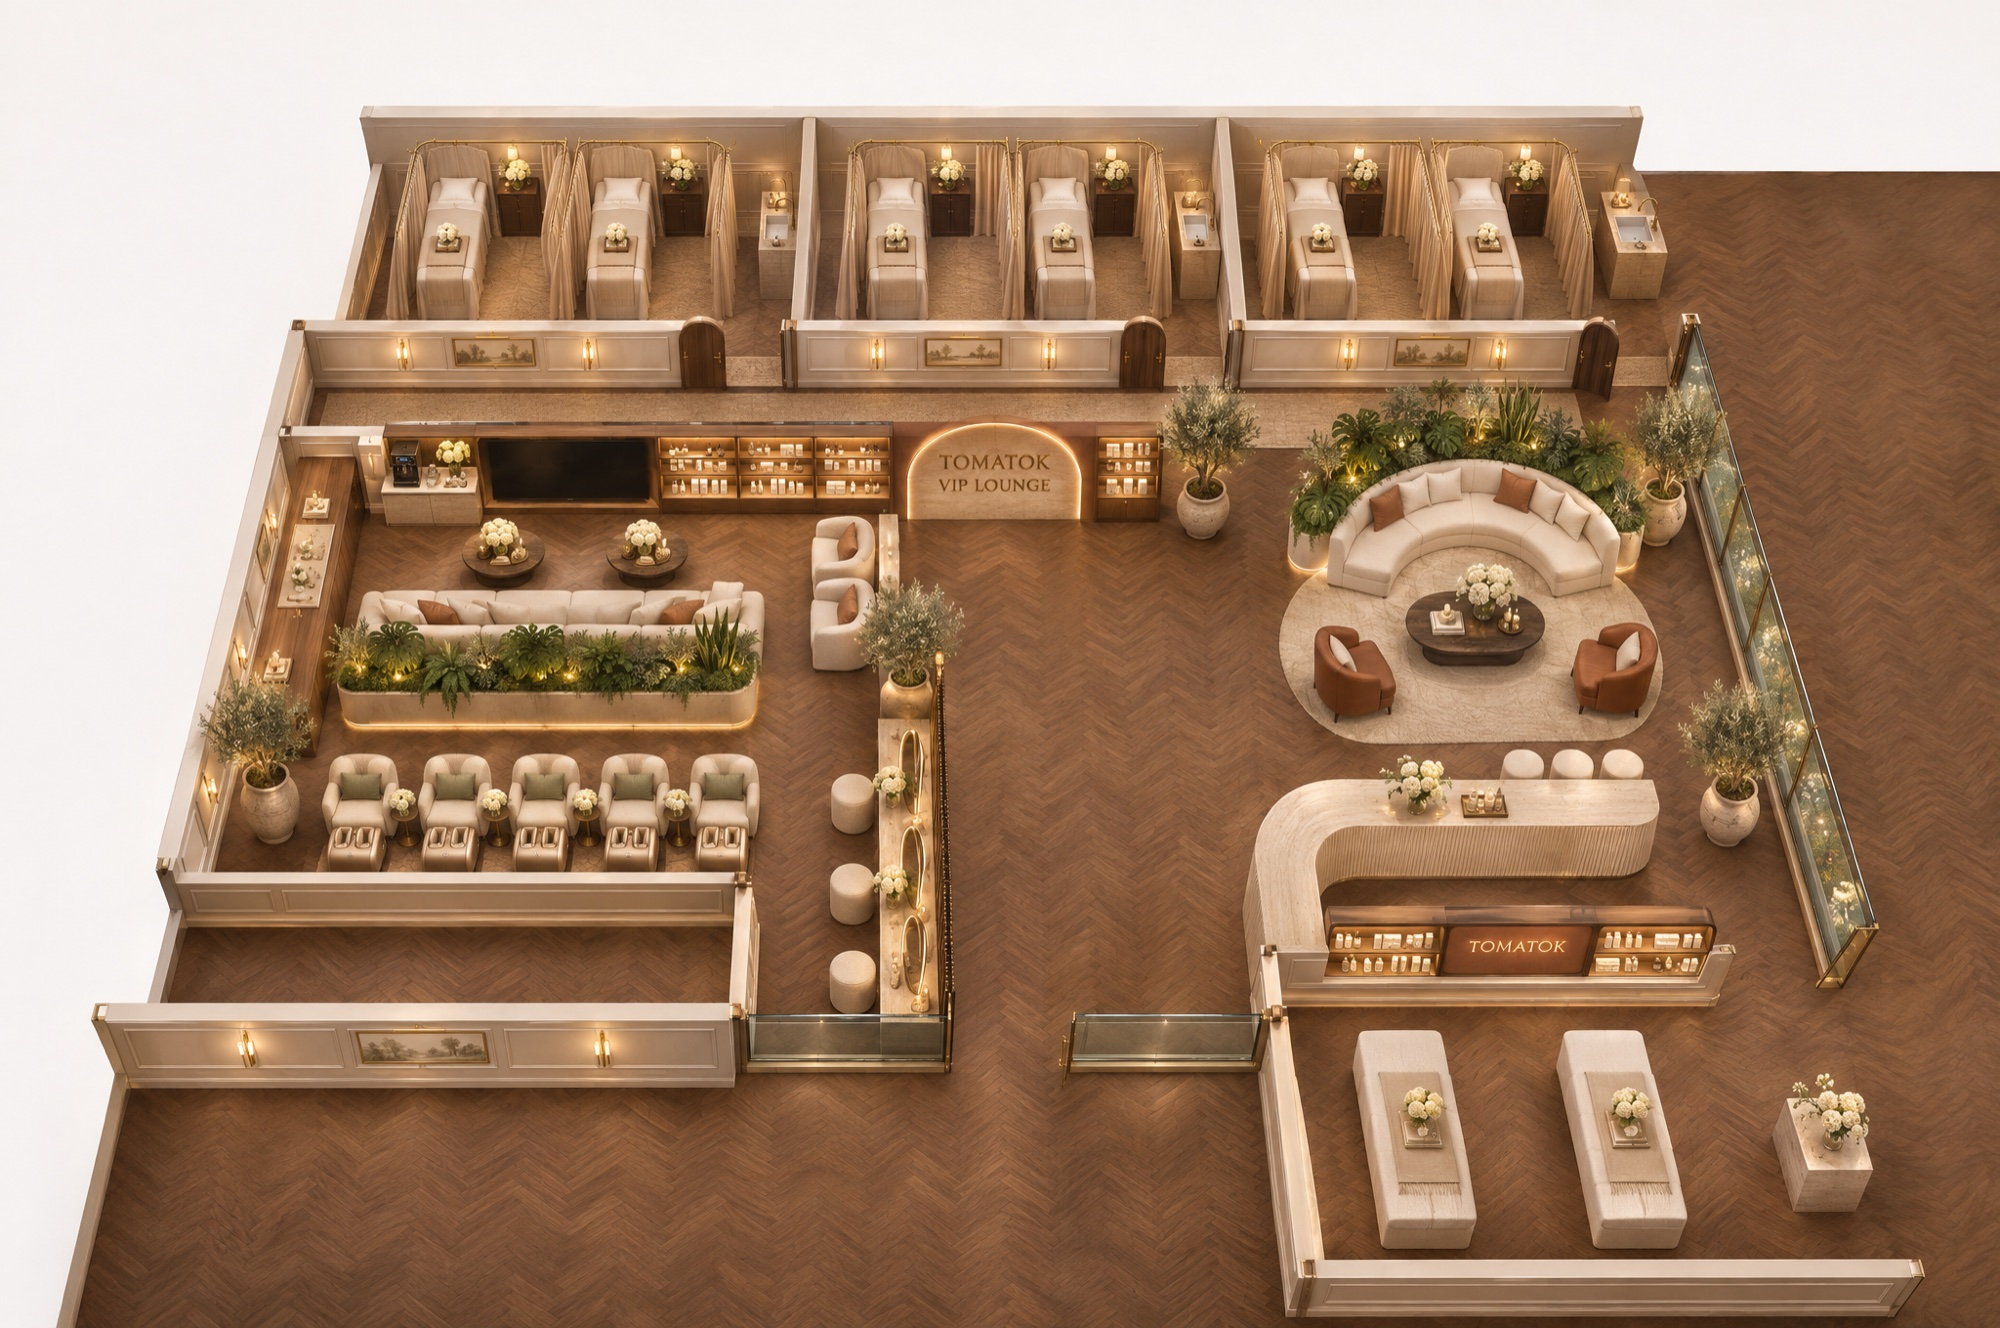
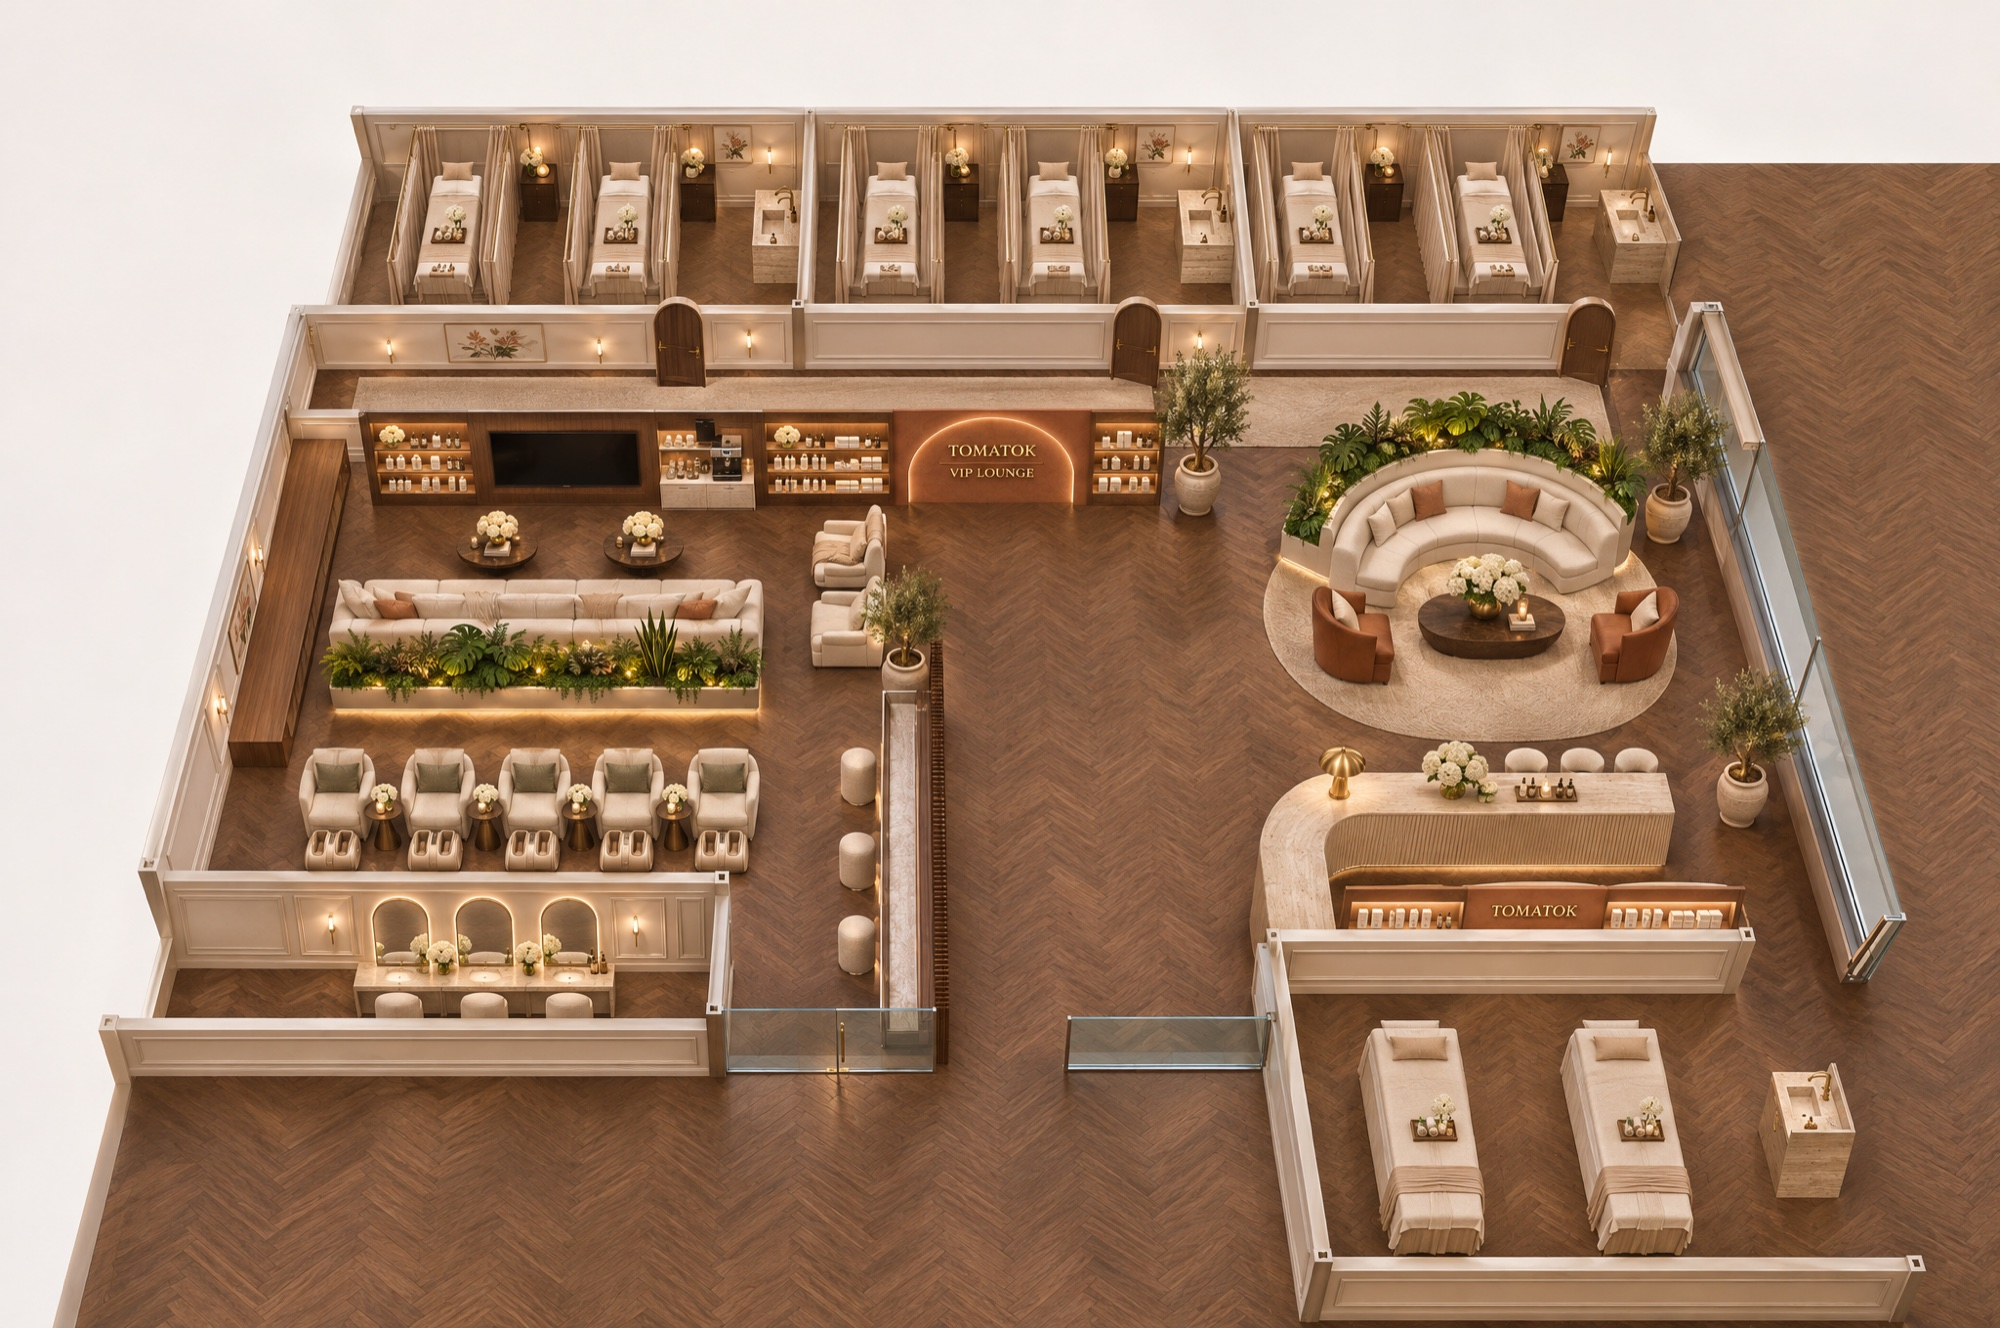
컨셉 2안 사진과 바뀐 시점 사진을 반영한다.
도면의 카메라 위치를 맞추고, 컨셉 전환은 제목 옆에서 하게 했다.

diff --git a/public/plan/guides/guide4.html b/public/plan/guides/guide4.html
@@ -22,7 +22,17 @@ for(const sx of [1.3,4.35,5.3,6.25,9.45])for(const sz of [0.6,1.0,1.4,1.8])if(!(
 
 B(0.05,4.68,0.71,3.86,0,0.5,WOOD);B(4.25,5.19,1.15,0.12,0,0.95,STONE);B(4.6,5.19,0.35,0.1,0.95,1.35,DARK);B(0.05,4.9,1.15,0.14,0,CH,WALL);
 // 발마사지 5석
-for(let i=0;i<4;i++){const x=1.0+1.25*i;chair(x,9.38,0.85,0.85,'N');B(x+0.2,8.8,0.45,0.5,0,0.45,GREEN);}for(let i=0;i<3;i++)CYL(1.0+1.25*i+1.05,9.8,0.17,0,0.6,DARK);for(let k=0;k<15;k++){const a1=(195+10*k)*Math.PI/180,a2=(205+10*k)*Math.PI/180,cx=13.7,cy=6.7;const q=(r1,r2)=>[[cx+r2*Math.cos(a1),cy+r2*Math.sin(a1)],[cx+r2*Math.cos(a2),cy+r2*Math.sin(a2)],[cx+r1*Math.cos(a2),cy+r1*Math.sin(a2)],[cx+r1*Math.cos(a1),cy+r1*Math.sin(a1)]];PR(q(0.85,1.75),0,0.42,SEAT);PR(q(1.5,1.75),0.42,0.8,SEAT);}/*PLANT*/for(let k=0;k<14;k++){const a1=(200+10*k)*Math.PI/180,a2=(210+10*k)*Math.PI/180,cx=13.7,cy=6.7;PR([[cx+2.15*Math.cos(a1),cy+2.15*Math.sin(a1)],[cx+2.15*Math.cos(a2),cy+2.15*Math.sin(a2)],[cx+1.8*Math.cos(a2),cy+1.8*Math.sin(a2)],[cx+1.8*Math.cos(a1),cy+1.8*Math.sin(a1)]],0,0.9,'#7fa06f');}B(1.0,7.55,4.4,0.35,0,0.9,'#7fa06f');for(const [px,py] of [[16.15,5.1],[16.15,8.9],[10.6,5.0],[7.2,7.6]])CYL(px,py,0.25,0,1.3,'#7fa06f');chair(11.95,7.15,0.8,0.8,'E');chair(14.65,7.15,0.8,0.8,'W');{const pts=[];for(let k=0;k<20;k++){const a=k*Math.PI/10;pts.push([13.7+0.7*Math.cos(a),6.95+0.42*Math.sin(a)]);}PR(pts,0,0.38,DARK);}for(const cy of [9.05,10.1,11.15])CYL(6.72,cy,0.18,0,0.45,SEAT);
+const prisms=[];const PR=(pts,z0,z1,c)=>prisms.push({pts,z0,z1,c});
+const CYL=(cx,cy,r,z0,z1,c)=>{const pts=[];for(let k=0;k<20;k++){const a=k*Math.PI/10;pts.push([cx+r*Math.cos(a),cy+r*Math.sin(a)]);}PR(pts,z0,z1,c);};
+for(let i=0;i<4;i++){const x=1.0+1.25*i;chair(x,9.38,0.85,0.85,'N');B(x+0.2,8.8,0.45,0.5,0,0.45,GREEN);}for(let i=0;i<3;i++)CYL(1.0+1.25*i+1.05,9.8,0.17,0,0.6,DARK);
+// 쉼 라운지 긴 소파와 테이블, 파우더룸(창살·화장대), 안내데스크와 뒷벽 진열, 동쪽 벽 TV
+chair(1.0,6.6,4.4,0.9,'N');CYL(2.3,5.95,0.25,0,0.4,DARK);CYL(4.2,5.95,0.25,0,0.4,DARK);
+for(let y=7.93;y<11.83;y+=0.13)B(7.53,y,0.09,0.05,0,1.8,WOOD);B(7.02,8.5,0.5,3.2,0,0.78,STONE);
+PR([[11.09,10.25],[11.69,10.25],[11.69,11.03],[11.09,11.03]],0,1.05,STONE);PR([[11.99,9.35],[15.0,9.35],[15.0,9.95],[11.99,9.95]],0,1.05,STONE);
+for(let k=0;k<18;k++){const a=(180+5*k)*Math.PI/180,b=(185+5*k)*Math.PI/180,cx=11.99,cy=10.25;PR([[cx+0.9*Math.cos(a),cy+0.9*Math.sin(a)],[cx+0.9*Math.cos(b),cy+0.9*Math.sin(b)],[cx+0.3*Math.cos(b),cy+0.3*Math.sin(b)],[cx+0.3*Math.cos(a),cy+0.3*Math.sin(a)]],0,1.05,STONE);}
+B(11.2,10.72,4.1,0.3,0,AER?1.0:2.3,WOOD);B(12.6,10.69,1.3,0.03,AER?0.2:0.9,AER?0.95:2.1,'#b0603f');if(!AER)for(const sx of [11.3,14.0])for(const sz of [0.7,1.1,1.5,1.9])B(sx,10.7,1.2,0.02,sz,sz+0.03,GOLD);
+CYL(13.9,8.98,0.18,0,0.65,SEAT);CYL(14.4,8.98,0.18,0,0.65,SEAT);CYL(14.9,8.98,0.18,0,0.65,SEAT);if(!AER)B(16.34,6.55,0.06,1.9,1.1,2.15,DARK);
+for(let k=0;k<15;k++){const a1=(195+10*k)*Math.PI/180,a2=(205+10*k)*Math.PI/180,cx=13.7,cy=6.7;const q=(r1,r2)=>[[cx+r2*Math.cos(a1),cy+r2*Math.sin(a1)],[cx+r2*Math.cos(a2),cy+r2*Math.sin(a2)],[cx+r1*Math.cos(a2),cy+r1*Math.sin(a2)],[cx+r1*Math.cos(a1),cy+r1*Math.sin(a1)]];PR(q(0.85,1.75),0,0.42,SEAT);PR(q(1.5,1.75),0.42,0.8,SEAT);}/*PLANT*/for(let k=0;k<14;k++){const a1=(200+10*k)*Math.PI/180,a2=(210+10*k)*Math.PI/180,cx=13.7,cy=6.7;PR([[cx+2.15*Math.cos(a1),cy+2.15*Math.sin(a1)],[cx+2.15*Math.cos(a2),cy+2.15*Math.sin(a2)],[cx+1.8*Math.cos(a2),cy+1.8*Math.sin(a2)],[cx+1.8*Math.cos(a1),cy+1.8*Math.sin(a1)]],0,0.9,'#7fa06f');}B(1.0,7.55,4.4,0.35,0,0.9,'#7fa06f');for(const [px,py] of [[16.15,5.1],[16.15,8.9],[10.6,5.0],[7.2,7.6]])CYL(px,py,0.25,0,1.3,'#7fa06f');chair(11.95,7.15,0.8,0.8,'E');chair(14.65,7.15,0.8,0.8,'W');{const pts=[];for(let k=0;k<20;k++){const a=k*Math.PI/10;pts.push([13.7+0.7*Math.cos(a),6.95+0.42*Math.sin(a)]);}PR(pts,0,0.38,DARK);}for(const cy of [9.05,10.1,11.15])CYL(6.72,cy,0.18,0,0.45,SEAT);
 
 
 // 관리실 1~4: 벽과 베드(항공뷰용)
@@ -32,8 +42,8 @@ for(const x0 of [0.05,5.69,11.09]){B(x0+0.7,0.6,0.75,1.9,0,0.65,'#ffffff');B(x0+
 
 const VIEWS={
  'aerialL':{x:-2.6,y:7.4,h:90,ez:18,pitch:59},'aerialR':{x:19.2,y:7.4,h:270,ez:18,pitch:59},'aerialB':{x:8.2,y:-3.0,h:180,ez:18,pitch:59},'footc':{x:6.0,y:8.55,h:262},'sofaview':{x:2.6,y:7.1,h:38,ez:1.15},'aerial':{x:8.2,y:17.6,h:0,ez:18,pitch:61},
- 'entry':{x:8.7,y:11.3,h:352},
- 'desk':{x:10.4,y:8.9,h:52},
+ 'entry':{x:9.3,y:8.4,h:312},
+ 'desk':{x:9.6,y:7.2,h:122},
  'brand':{x:8.9,y:9.5,h:350},'retail':{x:9.6,y:9.2,h:296},
  'foot':{x:7.6,y:6.3,h:248},
  'wait':{x:10.6,y:5.9,h:105},

diff --git a/src/components/viewer.tsx b/src/components/viewer.tsx
@@ -88,9 +88,24 @@ export function Viewer({ planMarkup, views }: Props) {
               TOMATOK VIP LOUNGE 배치안
             </h1>
             <p className="mt-1 text-sm text-muted">
-              도면을 누르면 오른쪽 사진이 열립니다. 컨셉 1안과 2안은 그 사진에서 바꿉니다.
+              도면을 누르면 오른쪽 사진이 열립니다. 컨셉 1안과 2안은 제목 옆 버튼으로 바꿉니다.
             </p>
           </div>
+                <div className="flex w-fit overflow-hidden rounded-md border border-ink text-sm" role="group" aria-label="컨셉">
+                  {concepts.map((item, index) => (
+                    <button
+                      key={item.id}
+                      type="button"
+                      aria-pressed={item.id === concept.id && !compare}
+                      onClick={() => update({ concept: item.id, compare: null })}
+                      className={`px-4 py-2 ${
+                        item.id === concept.id && !compare ? "bg-ink text-paper" : "bg-panel"
+                      }`}
+                    >
+                      컨셉 {index + 1}안
+                    </button>
+                  ))}
+                </div>
         </div>
       </header>
 
@@ -148,6 +163,14 @@ export function Viewer({ planMarkup, views }: Props) {
               >
                 {showAerial ? "도면으로 돌아가기" : "전체 항공뷰 보기"}
               </button>
+              <a
+                href="/tomatok-3d.html"
+                target="_blank"
+                rel="noreferrer"
+                className="rounded-md border border-ink bg-panel px-3 py-1.5 font-medium"
+              >
+                3D 도면 보기
+              </a>
               <span className="ml-2 text-muted">동선 표시</span>
               {flows.map((item) => (
                 <button
@@ -240,21 +263,6 @@ export function Viewer({ planMarkup, views }: Props) {
                   </div>
                 ) : null}
 
-                <div className="mt-4 flex w-fit overflow-hidden rounded-md border border-ink text-sm" role="group" aria-label="이 시점의 컨셉">
-                  {concepts.map((item, index) => (
-                    <button
-                      key={item.id}
-                      type="button"
-                      aria-pressed={item.id === concept.id && !compare}
-                      onClick={() => update({ concept: item.id, compare: null })}
-                      className={`px-3 py-1.5 ${
-                        item.id === concept.id && !compare ? "bg-ink text-paper" : "bg-panel"
-                      }`}
-                    >
-                      컨셉 {index + 1}안
-                    </button>
-                  ))}
-                </div>
                 <div
                   className={`mt-3 grid gap-3 ${compare ? "sm:grid-cols-2" : ""}`}
                 >

diff --git a/src/lib/shop.ts b/src/lib/shop.ts
@@ -82,14 +82,13 @@ export const concepts: ShopConcept[] = [
 ];
 
 export const cameras: Camera[] = [
-  { id: "entry", no: 1, label: "입구에서 브랜드 월", x: 8.7, y: 11.3, heading: 352, stage: 1, zoneId: "entry" },
-  { id: "sales", no: 2, label: "쉼 라운지와 발마사지", x: 7.6, y: 6.3, heading: 248, stage: 1, zoneId: "sales" },
+  { id: "entry", no: 1, label: "입구에서 본 라운지", x: 9.3, y: 8.4, heading: 312, stage: 1, zoneId: "entry" },
   { id: "wait", no: 3, label: "안내데스크와 대기", x: 9.0, y: 6.4, heading: 118, stage: 1, zoneId: "wait" },
   { id: "room", no: 4, label: "관리실", x: 9.0, y: 3.05, heading: 30, stage: 1, zoneId: "rooms" },
   { id: "corridor", no: 5, label: "관리실 복도", x: 0.7, y: 4.07, heading: 90, stage: 2, zoneId: "corridor" },
   { id: "powder", no: 6, label: "파우더룸", x: 6.6, y: 8.2, heading: 190, stage: 2, zoneId: "powder" },
   { id: "foot", no: 7, label: "셀프 발마사지", x: 6.0, y: 8.55, heading: 262, stage: 1, zoneId: "foot" },
-  { id: "desk", no: 9, label: "안내데스크 (접수·판매)", x: 12.6, y: 8.0, heading: 180, stage: 1, zoneId: "counter" },
+  { id: "desk", no: 9, label: "안내데스크 (접수·판매)", x: 9.6, y: 7.2, heading: 122, stage: 1, zoneId: "counter" },
   { id: "sofaview", no: 12, label: "소파에 앉아서 본 모습", x: 2.6, y: 7.1, heading: 38, stage: 1, zoneId: "sales" },
   { id: "aerial", no: 8, label: "항공뷰 (전체)", x: 8.3, y: 13.4, heading: 0, stage: 1, zoneId: "entry" },
 ];
@@ -132,7 +131,7 @@ export const zones: Zone[] = [
       "소파 뒤에서 발마사지기까지 1.3m 통로",
     ],
     rects: [[0.9, 5.5, 4.6, 2.1]],
-    cameraIds: ["sofaview", "sales"],
+    cameraIds: ["sofaview"],
     why: [
       "소파 뒤에 긴 플랜터(4.4 × 0.35m)를 놓아 발마사지 자리와 나눴다. 발마사지를 받는 사람과 소파에 앉은 사람이 서로 가려진다.",
       "쉼 공간이다. 쿠폰 없이 온 VIP도 여기서 쉬다 간다.",
@@ -201,7 +200,7 @@ export const zones: Zone[] = [
       "셀프",
     ],
     rects: [[4.2, 4.7, 1.25, 1.0]],
-    cameraIds: ["sales"],
+    cameraIds: ["sofaview"],
     why: [
       "창가는 비워 두기로 해서 진열장 맨 왼쪽(창 옆)에서 TV 오른쪽 칸으로 옮겼다. 창에서 3m 떨어진다.",
       "쉼 소파 정면이라 앉은 자리에서 몇 걸음이다. 발마사지 좌석에서도 가깝다.",
@@ -273,8 +272,7 @@ export const zones: Zone[] = [
       [13.55, 8.7, 1.6, 1.3],
       [11.15, 10.65, 4.2, 0.4],
       [1.2, 4.74, 1.15, 0.5],
-      [4.25, 4.74, 1.8, 0.5],
-      [0.05, 4.68, 0.71, 3.86],
+      [5.45, 4.74, 1.7, 0.5],
     ],
     cameraIds: ["desk", "wait"],
     why: [

diff --git a/public/tomatok-3d.html b/public/tomatok-3d.html
@@ -68,9 +68,9 @@ button:focus-visible,.lbl:focus-visible{outline:2px solid var(--gold);outline-of
 
 <aside>
   <h1>토마톡 대전지사 공간 모델</h1>
-  <p class="ver">용두동 신규 건물 2·4층 · 2026.11.26</p>
+  <p class="ver">용두동 신규 건물 2층 · 2026.11.26</p>
 
-  <div class="seg" role="group" aria-label="층 선택">
+  <div class="seg" role="group" style="display:none" aria-label="층 선택">
     <button data-view="2f" aria-pressed="false">2층</button>
     <button data-view="4" aria-pressed="false">4층</button>
     <button data-view="all" aria-pressed="true">전체</button>
@@ -79,13 +79,13 @@ button:focus-visible,.lbl:focus-visible{outline:2px solid var(--gold);outline-of
   <p class="hint" id="allNote" style="margin:-6px 0 10px"></p>
   <label class="toggle"><input type="checkbox" id="lblToggle" checked> 공간 이름 표시</label>
 
-  <div class="legend" id="legend"></div>
+  <div class="legend" id="legend" style="display:none"></div>
 
   <div id="info">
     <p class="hint">공간을 누르면 요구사항과 면적이 표시됩니다. 드래그로 회전, 휠·두 손가락으로 확대할 수 있습니다.</p>
   </div>
 
-  <p class="note">11/26 레이아웃 기준: VIP 라운지(판매·결제 카운터·체험 대기·파우더룸)는 파티션 없이 오픈, 관리실 1~4, 미팅실 2실, 지사장실 1~4, 탕비실, 통합 업무 라운지, 통유리 회장실. 4층 세미나 홀(강단 동측 정중앙, 64석) · 테라스. 면적은 도면 치수 기준 추정치.</p>
+  <p class="note" style="display:none">11/26 레이아웃 기준: VIP 라운지(판매·결제 카운터·체험 대기·파우더룸)는 파티션 없이 오픈, 관리실 1~4, 미팅실 2실, 지사장실 1~4, 탕비실, 통합 업무 라운지, 통유리 회장실. 4층 세미나 홀(강단 동측 정중앙, 64석) · 테라스. 면적은 도면 치수 기준 추정치.</p>
 </aside>
 
 <script src="https://cdnjs.cloudflare.com/ajax/libs/three.js/r128/three.min.js"></script>
@@ -265,7 +265,7 @@ function setView(v){
 }
 document.querySelectorAll('.seg button').forEach(b=>b.addEventListener('click',()=>setView(b.dataset.view)));
 // 고객 구역이 있는 2층부터 보여 준다 (?view=all 로 전체)
-setTimeout(()=>setView(new URLSearchParams(location.search).get('view')||'2f'),0);
+setTimeout(()=>setView('2f'),0); /* 2층 고정 */
 document.getElementById('lblToggle').addEventListener('change',e=>{labelsEl.style.display=e.target.checked?'':'none'});
 
 function frame(){
